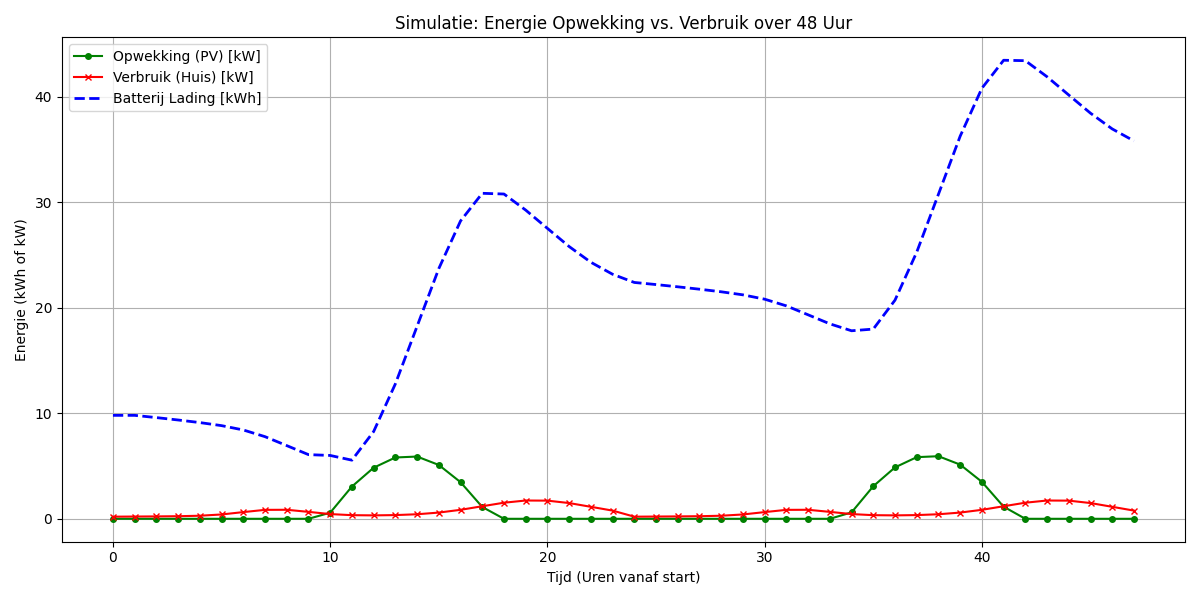
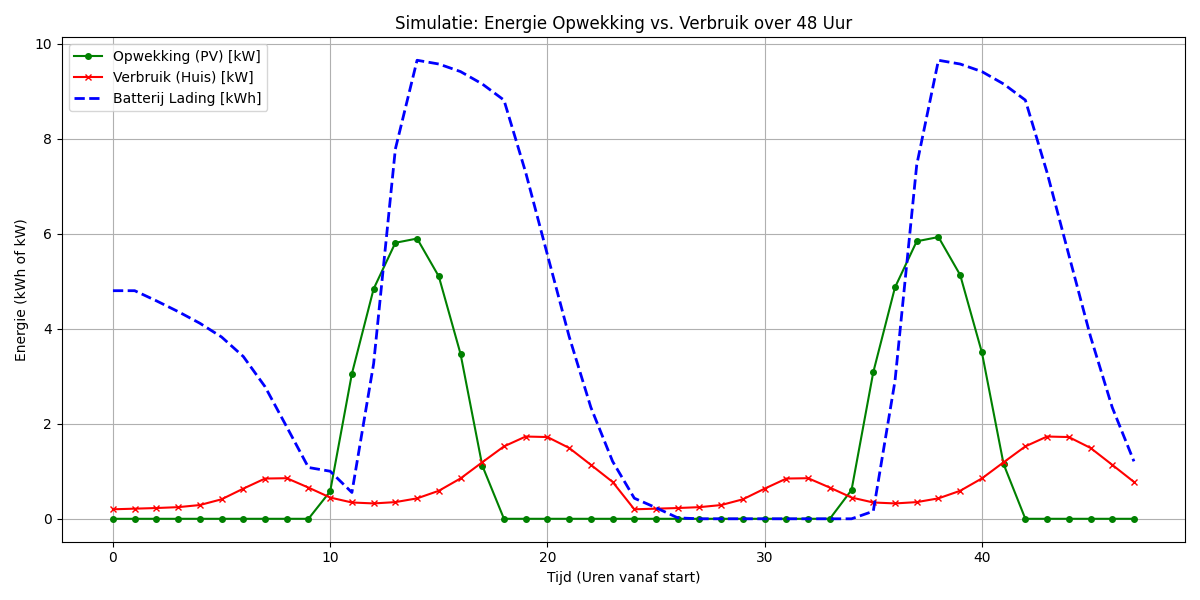
waarde van opgesteld PV en batterij aangepast aan normaal huis in NL Simulatie is dag 1 en 2 van het jaar (jan 1 en jan 2)

diff --git a/experiment_simpy/try_1_producer_consumer.py b/experiment_simpy/try_1_producer_consumer.py
@@ -121,8 +121,8 @@ if __name__ == "__main__":
     # Simpy omgeving configureren
     env = simpy.Environment()
     
-    # Maak systeem aan: Capaciteit van 50.0 kWh met initieel 10.0 kWh in de batterij
-    mijn_systeem = EnergieSysteem(env, capaciteit=50.0, initiele_lading=10.0)
+    # Maak systeem aan: Capaciteit van 10.0 kWh met initieel 5.0 kWh in de batterij
+    mijn_systeem = EnergieSysteem(env, capaciteit=10.0, initiele_lading=5.0)
     
     # Koppel de processen (actoren) aan de omgeving
     env.process(zonnepanelen_proces(env, mijn_systeem))

diff --git a/experiment_simpy/Model_voor_energieverbruik.md b/experiment_simpy/Model_voor_energieverbruik.md
@@ -6,3 +6,12 @@ Een vaste basislast met lichte stijging overdag.
 Een ochtendpiek (rond 07:30) van ongeveer 1,5 uur breed.
 Een bredere, hoge avondpiek (rond 19:30) van ongeveer 2,5 uur breed.
 Het levert een vloeiende curve op die heel mooi de grafiek uit je schets nabootst.
+
+
+Kleine thuisaccu	
+
+4 – 5 kWh	
+
+2,0 – 3,0 kW	
+
+Geschikt voor 1-2 persoons huishoudens met een verbruik rond 2.500 kWh/jaar.

diff --git a/README.md b/README.md
@@ -33,6 +33,11 @@ Deze grafiek wil ik benaderen als validatie van het DES systeem.
 
 ![met en zonder huisbatterij](consumptie_optimalisatie_123.png)
 
+- Dit is de uitkomst van de simulatie met 10 kWh batterij en 20 kWp maximaal PV vermogen bij volle zon.
+- De dag is 1 en 2 januari.
+
+![simulatie resultaat](experiment_simpy/simulatie_resultaat.png)
+
 ---
 
 ## 2. Aanleiding en context
